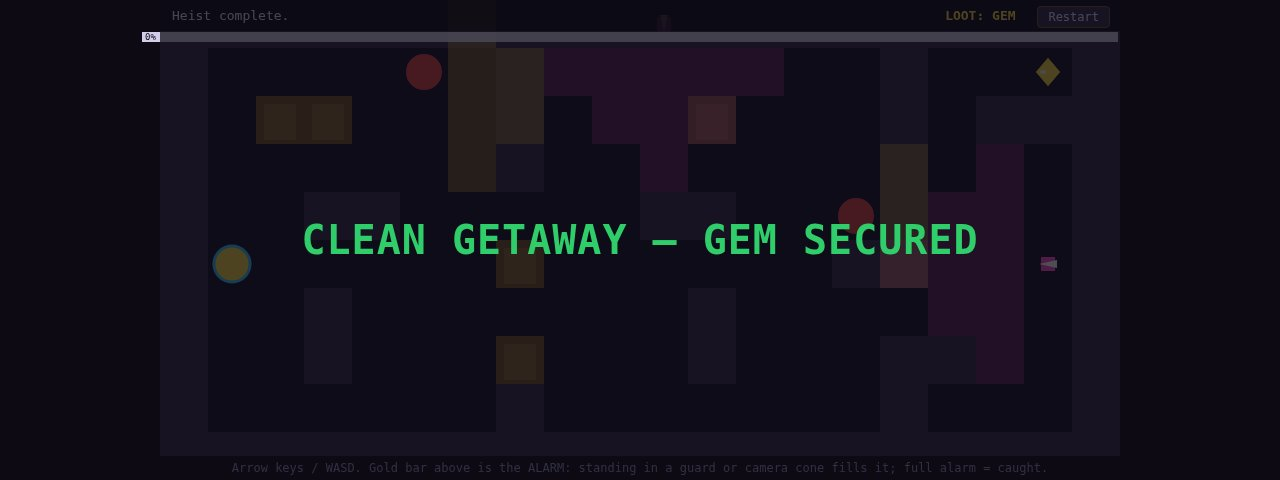
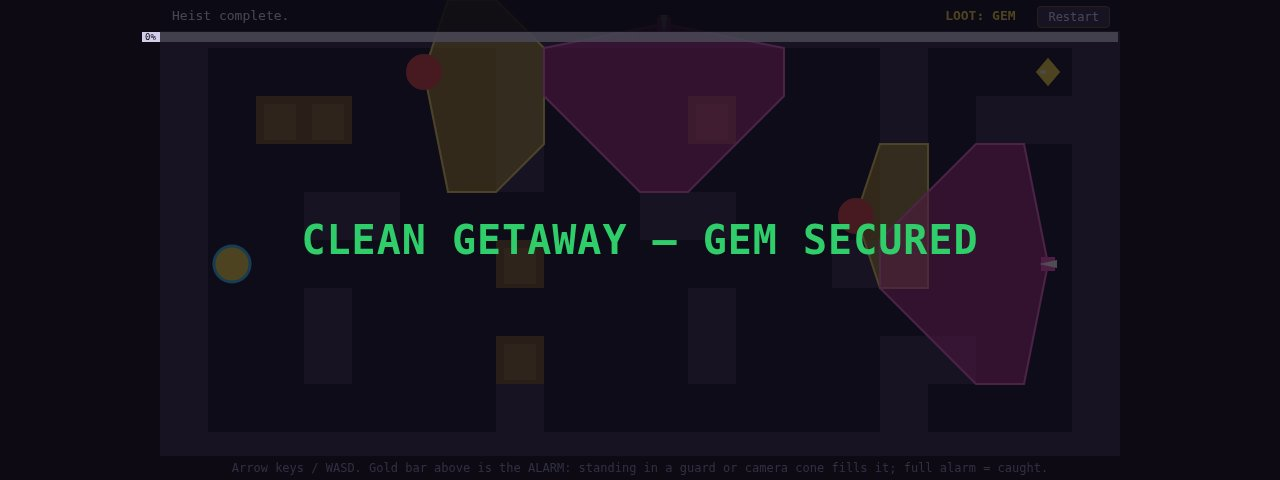
Heist entry: vision-cone fans and HUD status fix

Changed region(s): [[0.3125, 0.0625, 0.625, 0.4062], [0.6562, 0.2812, 0.8438, 0.8125], [0.6875, 0.2812, 0.7188, 0.3125]]

diff --git a/game/game.js b/game/game.js
@@ -78,7 +78,7 @@ function reset(keepStatus) {
     guards[0].idx = 0; guards[0].dir = 'right';
     guards[1].x = guards[1].wx[0]; guards[1].y = guards[1].wy[0];
     guards[1].idx = 0; guards[1].dir = 'right';
-    if (!keepStatus) statusText = 'Grab the gem in the vault (top right), then escape to the van (bottom left). 2 guards, 2 cameras, cones reach 3 tiles.';
+    if (!keepStatus) statusText = 'Grab the gem in the vault (top right), then escape to the van (bottom left).';
   }
   function init() { reset(false); buildTicks(); }
   function buildTicks() {
@@ -181,7 +181,7 @@ function reset(keepStatus) {
     } else if (player.hasGem) {
       statusText = 'Gem taken! Now get to the van (blue, bottom left).';
     } else {
-statusText = 'Grab the gem in the vault (top right), then escape to the van (bottom left). 2 guards, 2 cameras, cones reach 3 tiles.';
+statusText = 'Grab the gem in the vault (top right), then escape to the van (bottom left).';
     }
     draw();
   }
@@ -207,6 +207,58 @@ statusText = 'Grab the gem in the vault (top right), then escape to the van (bot
     return false;
   }
 
+  // Vision-cone fan: one bright polygon per watcher, built from the convex
+  // hull of its detection tiles plus the watcher centre (the fan vertex).
+  // Detection logic (coneOf) is untouched; only the rendering changes.
+  function hullPoints(pts) {
+    var p = pts.slice();
+    p.sort(function (a, b) { return a.x !== b.x ? a.x - b.x : a.y - b.y; });
+    var uniq = [];
+    for (var i = 0; i < p.length; i++) {
+      if (i && p[i].x === p[i - 1].x && p[i].y === p[i - 1].y) continue;
+      uniq.push(p[i]);
+    }
+    if (uniq.length < 3) return uniq;
+    function cross(o, a, b) { return (a.x - o.x) * (b.y - o.y) - (a.y - o.y) * (b.x - o.x); }
+    var lower = [];
+    for (var j = 0; j < uniq.length; j++) {
+      while (lower.length >= 2 && cross(lower[lower.length - 2], lower[lower.length - 1], uniq[j]) <= 0) lower.pop();
+      lower.push(uniq[j]);
+    }
+    var upper = [];
+    for (var k = uniq.length - 1; k >= 0; k--) {
+      while (upper.length >= 2 && cross(upper[upper.length - 2], upper[upper.length - 1], uniq[k]) <= 0) upper.pop();
+      upper.push(uniq[k]);
+    }
+    lower.pop();
+    upper.pop();
+    return lower.concat(upper);
+  }
+  function drawConeFan(cn) {
+    var pts = [{ x: cn.x * TILE + TILE / 2, y: cn.y * TILE + TILE / 2 }];
+    for (var k in cn.tiles) {
+      if (!cn.tiles.hasOwnProperty(k)) continue;
+      var p = k.split(',');
+      var tx = parseInt(p[0], 10) * TILE, ty = parseInt(p[1], 10) * TILE;
+      pts.push({ x: tx, y: ty });
+      pts.push({ x: tx + TILE, y: ty });
+      pts.push({ x: tx, y: ty + TILE });
+      pts.push({ x: tx + TILE, y: ty + TILE });
+    }
+    var hull = hullPoints(pts);
+    if (hull.length < 3) return;
+    var guard = cn.kind === 'guard';
+    CX.beginPath();
+    CX.moveTo(hull[0].x, hull[0].y);
+    for (var i = 1; i < hull.length; i++) CX.lineTo(hull[i].x, hull[i].y);
+    CX.closePath();
+    CX.fillStyle = guard ? 'rgba(255,214,64,0.55)' : 'rgba(255,64,190,0.55)';
+    CX.fill();
+    CX.lineWidth = 2;
+    CX.strokeStyle = guard ? 'rgba(255,226,110,0.95)' : 'rgba(255,110,215,0.95)';
+    CX.stroke();
+  }
+
   function draw() {
     CX.fillStyle = '#1e1830';
     CX.fillRect(0, 0, W * TILE, H * TILE);
@@ -221,17 +273,11 @@ statusText = 'Grab the gem in the vault (top right), then escape to the van (bot
         else if (c === 'V') { drawVan(x, y); }
       }
     }
-    // cones
+    // cones: one bright fan polygon per watcher (watcher centre = vertex),
+    // built from the convex hull of its detection tiles. Detection logic
+    // (coneOf) is untouched; only the rendering changes.
     var cones = allCones();
-    for (var ci = 0; ci < cones.length; ci++) {
-      var cn = cones[ci];
-      CX.fillStyle = cn.kind === 'guard' ? 'rgba(255,210,60,.35)' : 'rgba(255,80,200,.30)';
-      for (var k in cn.tiles) {
-        if (!cn.tiles.hasOwnProperty(k)) continue;
-        var p = k.split(',');
-        CX.fillRect(parseInt(p[0], 10) * TILE, parseInt(p[1], 10) * TILE, TILE, TILE);
-      }
-    }
+    for (var ci = 0; ci < cones.length; ci++) drawConeFan(cones[ci]);
     // draw gem & van again on top (above cones)
     for (y = 0; y < H; y++) for (x = 0; x < W; x++) {
       var cc = grid[y][x];
@@ -311,7 +357,7 @@ statusText = 'Grab the gem in the vault (top right), then escape to the van (bot
     CX.fillRect(cx0 - 4, cy0 - 1, 4, 2);
   }
   function resetStatusText() {
-    statusText = 'Grab the gem in the vault (top right), then escape to the van (bottom left). 2 guards, 2 cameras, cones reach 3 tiles.';
+    statusText = 'Grab the gem in the vault (top right), then escape to the van (bottom left).';
   }
 
   function move(dir) {
